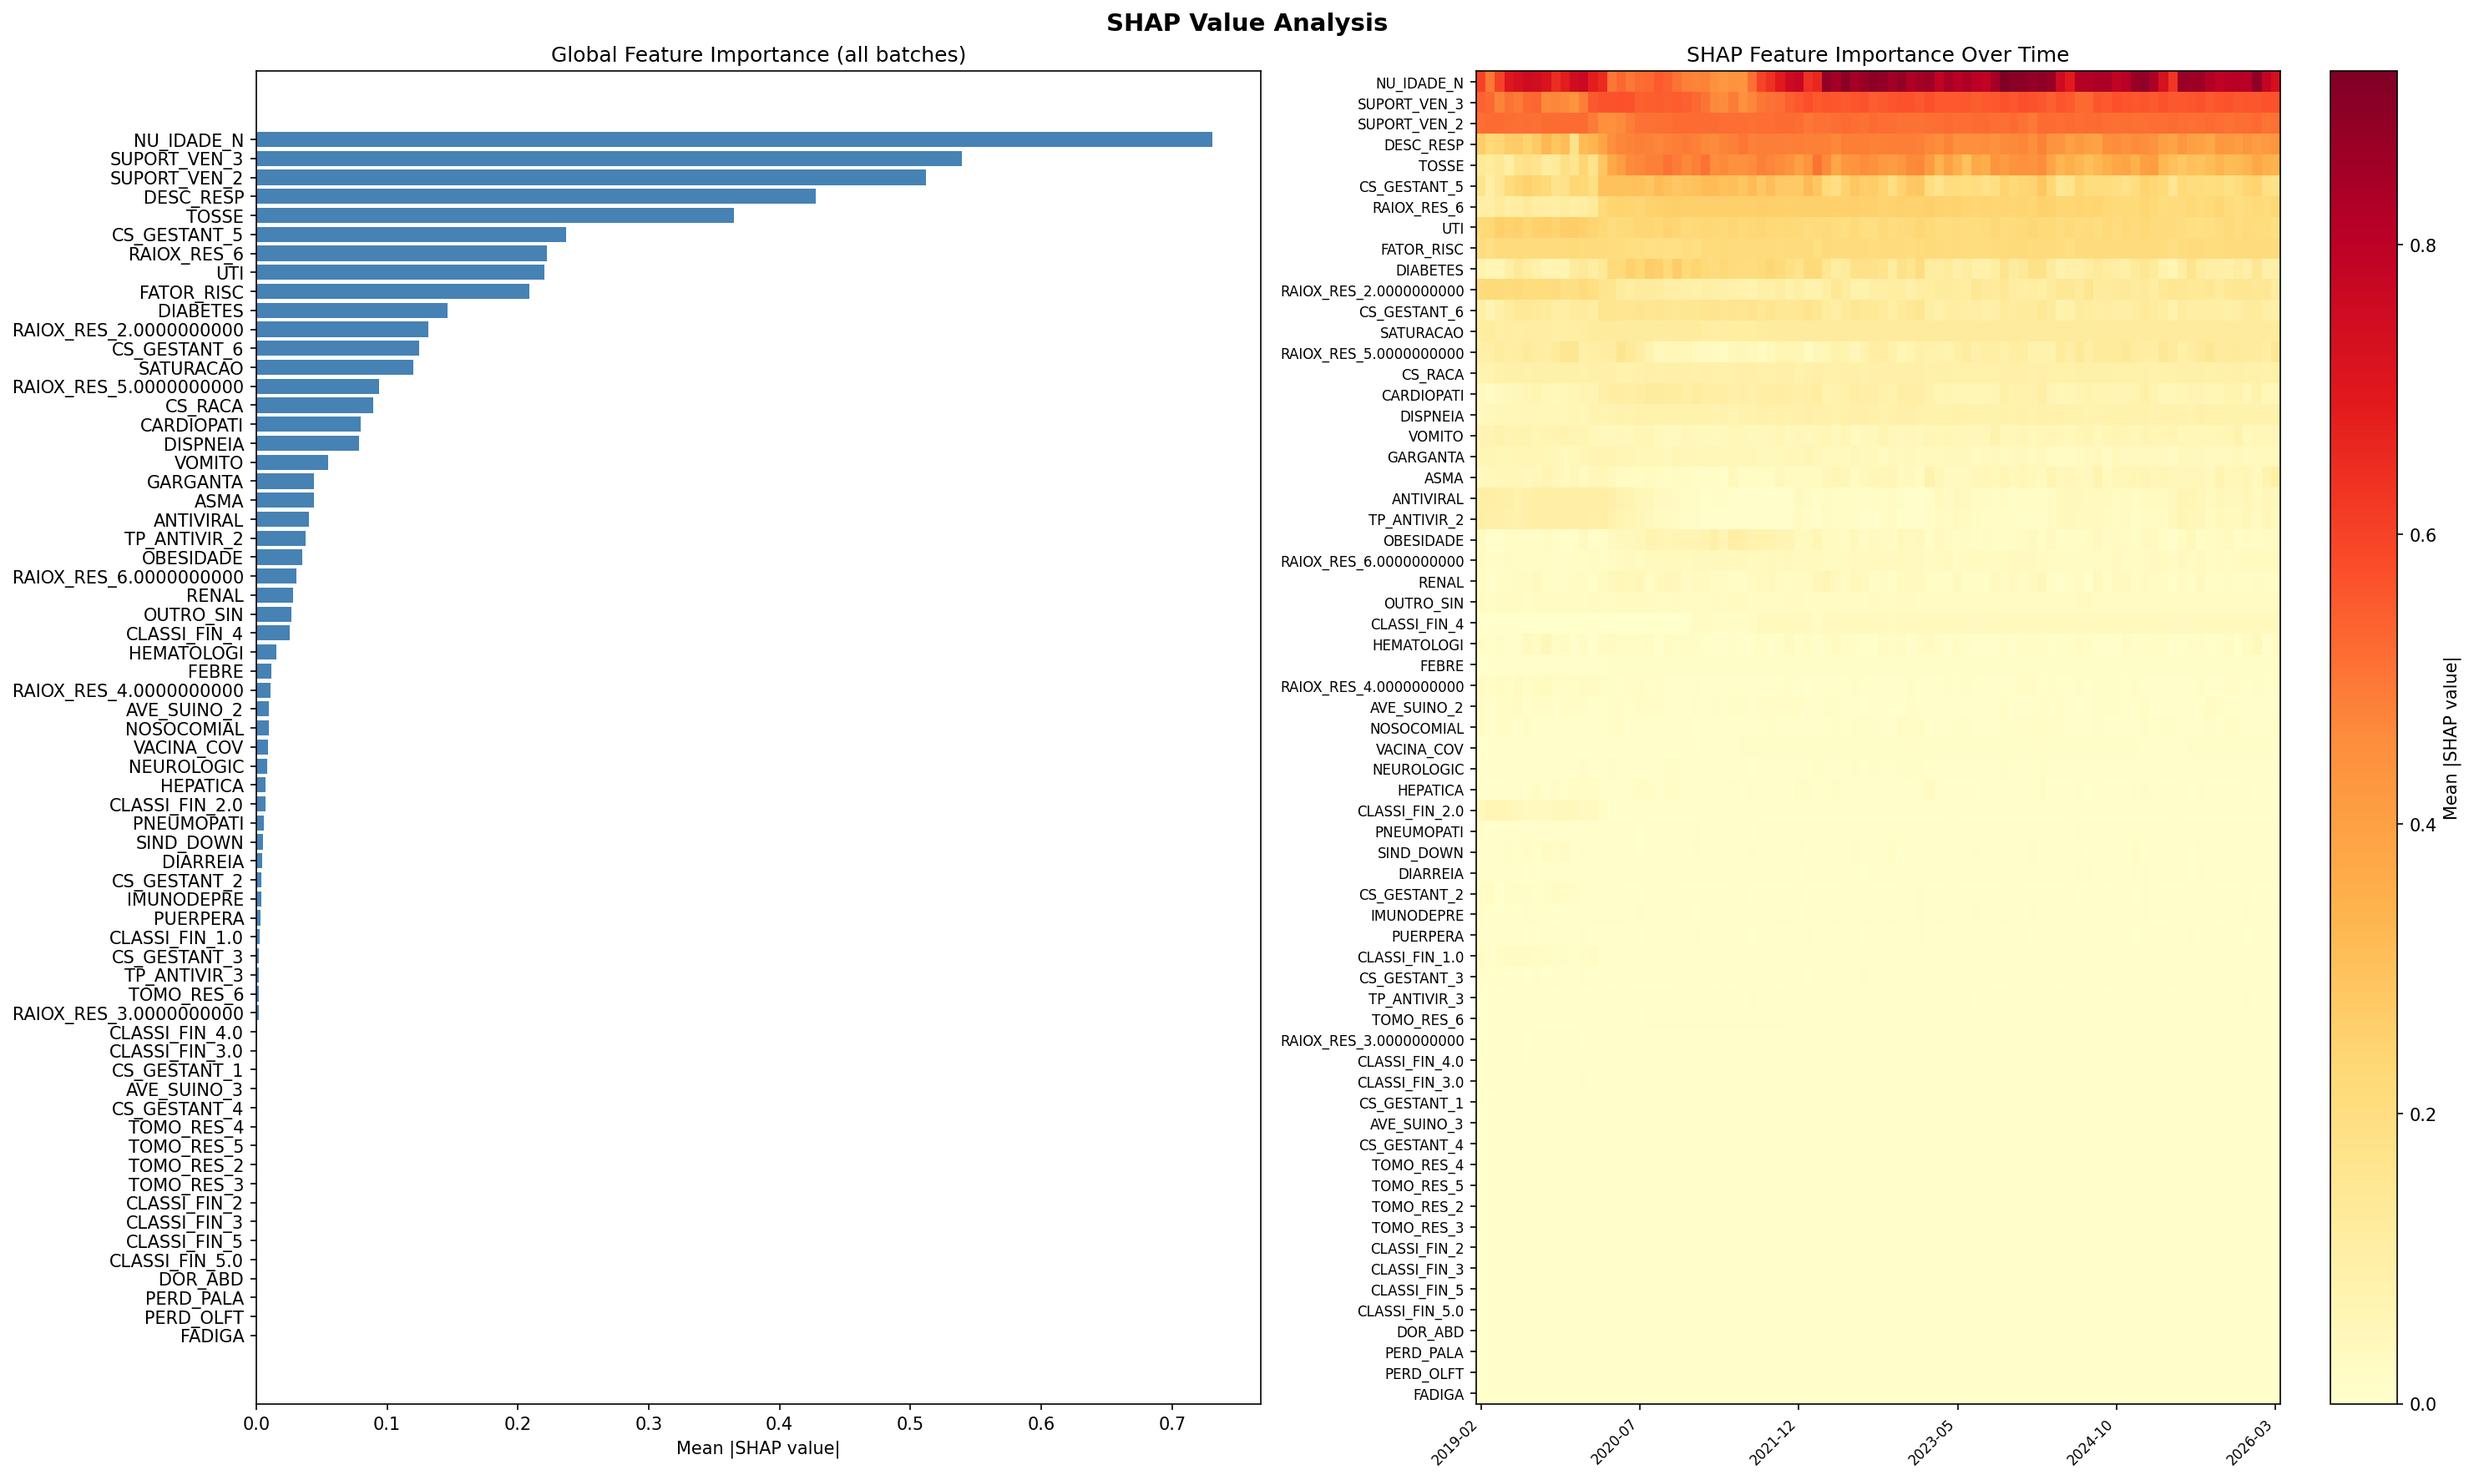
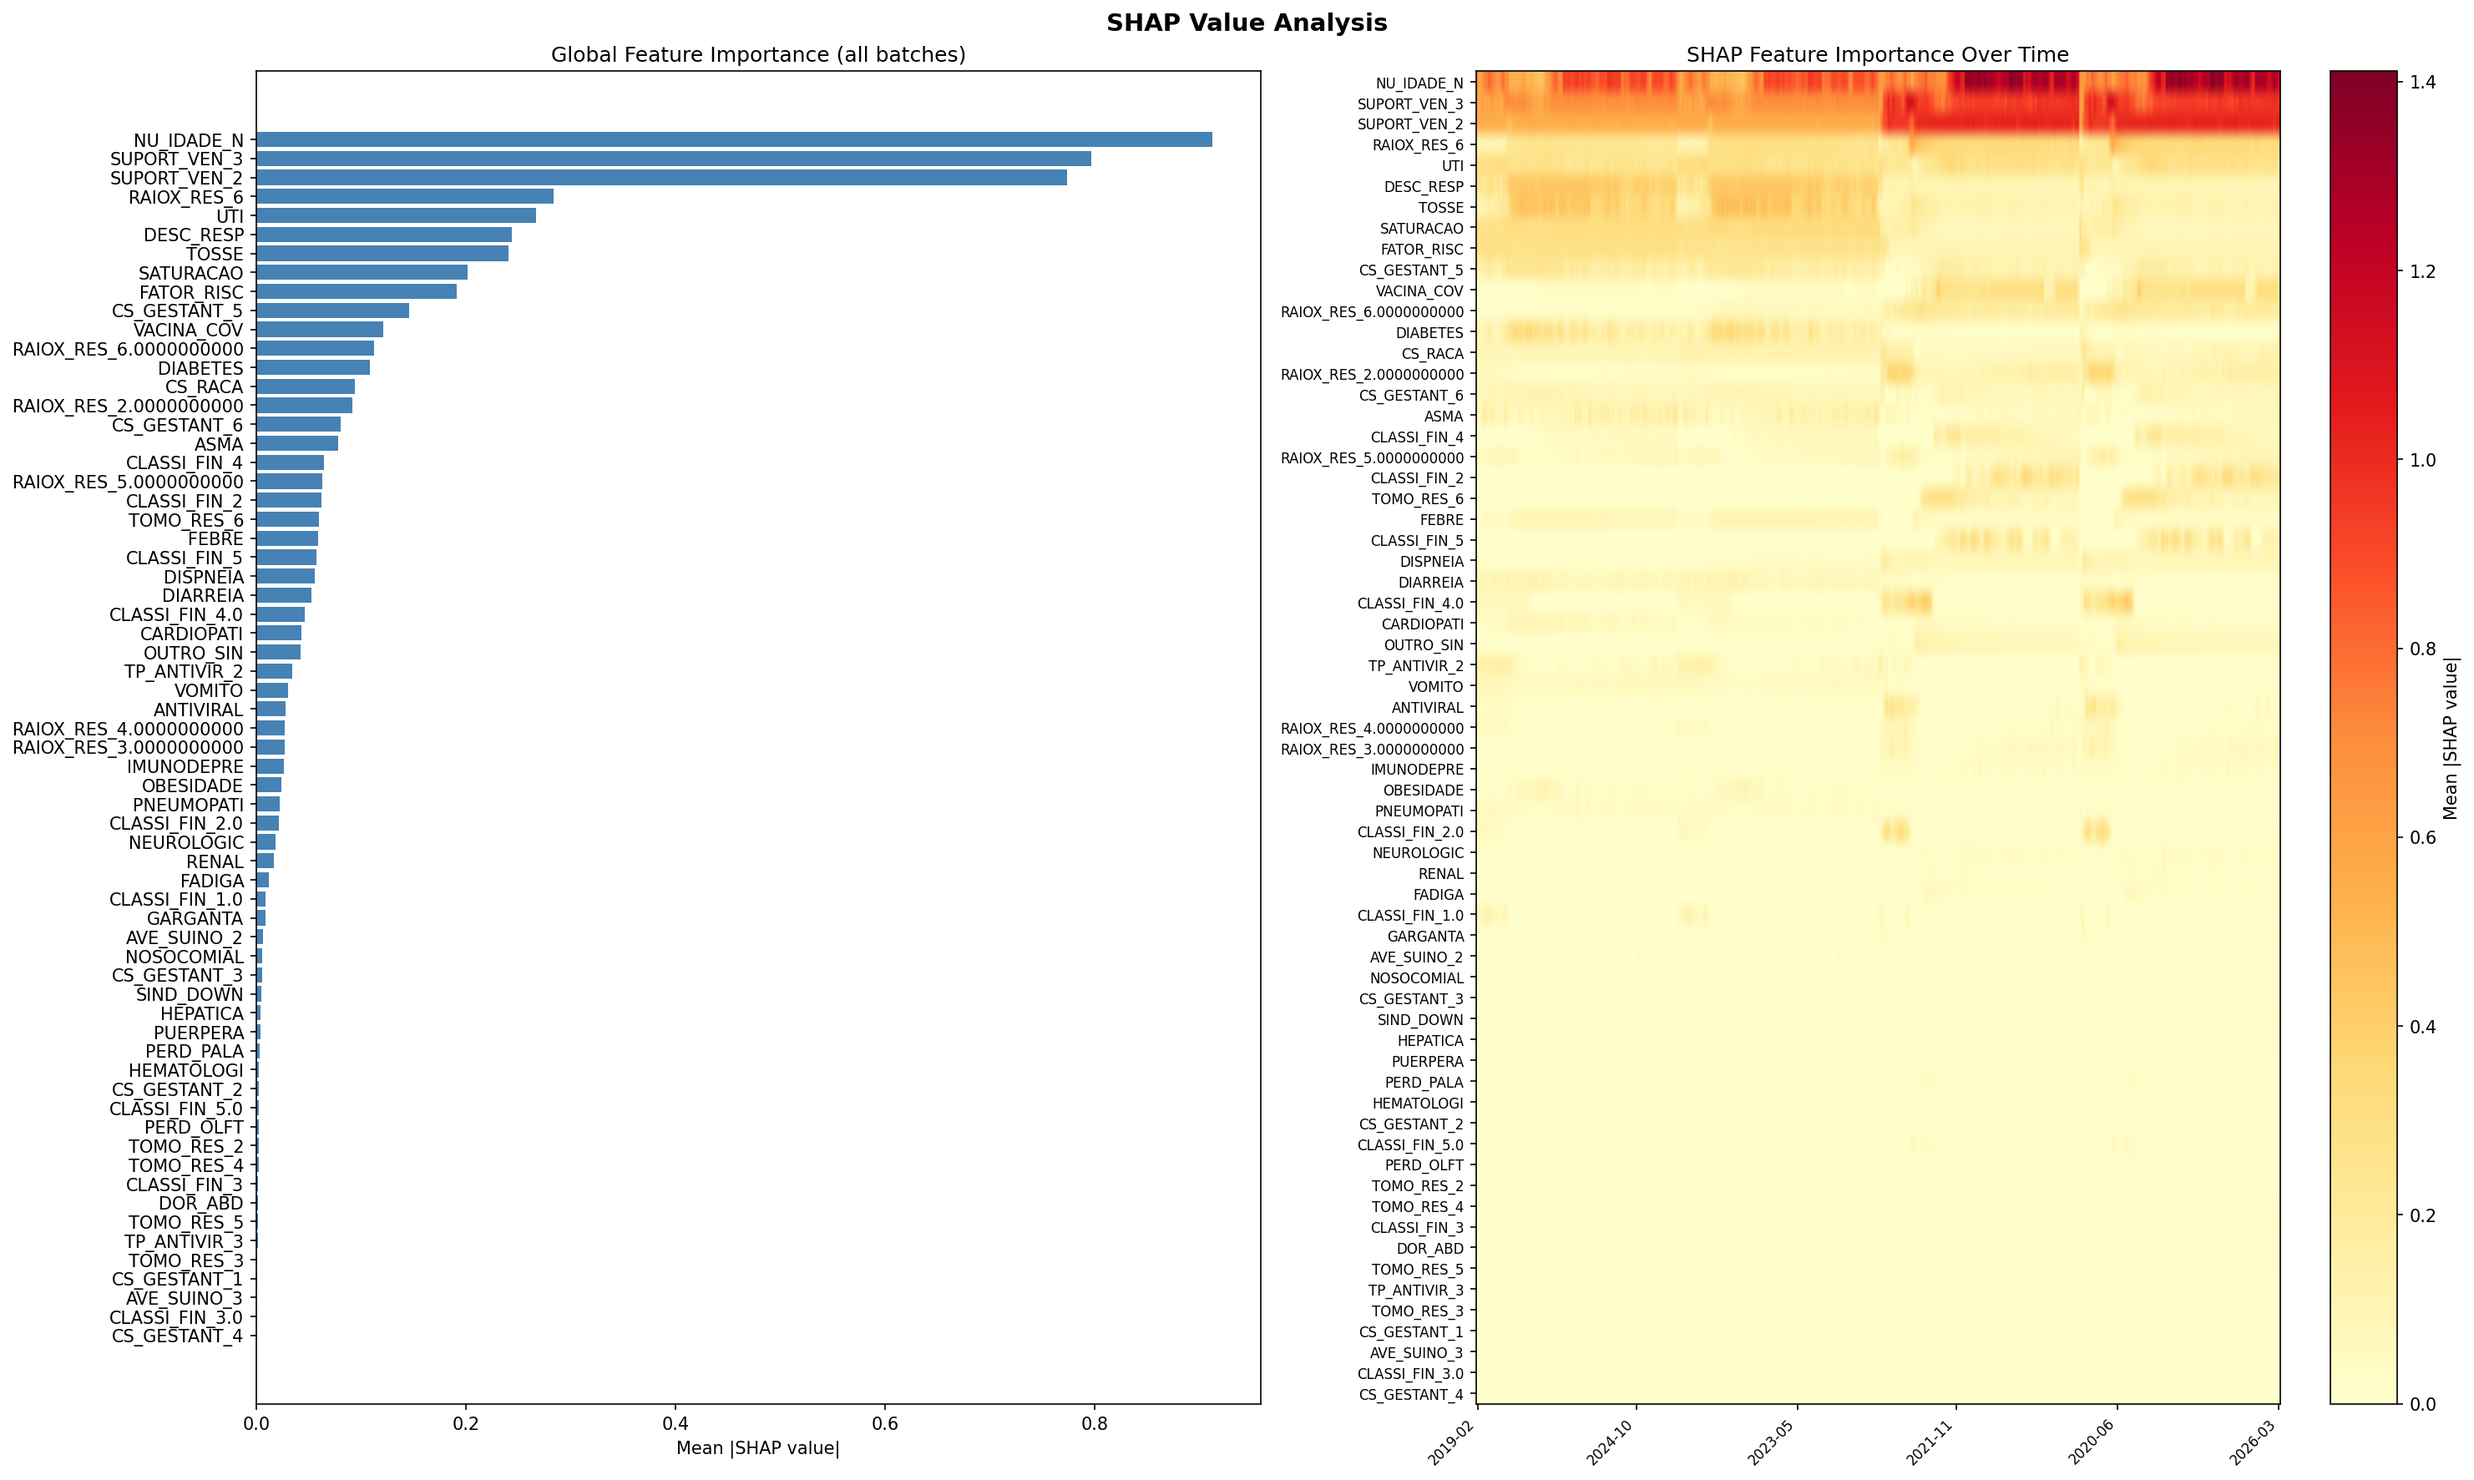
adding all baselines run and newer config on metrics charts

diff --git a/src/utils/metrics_utils.py b/src/utils/metrics_utils.py
@@ -80,32 +80,68 @@ def generate_charts(
     baseline_type: str = '',
     save: bool = False,
 ) -> None:
-    fig, axes = plt.subplots(1, 5, figsize=(30, 5))
+    _MA_WINDOW = 10
+    N_COLS = len(_SNAPSHOT_METRICS)
 
-    alphas = assessment_results_df['alpha'].unique()
+    has_baselines = 'baseline' in assessment_results_df.columns
+    baselines = assessment_results_df['baseline'].unique().tolist() if has_baselines else [None]
+    n_rows = len(baselines)
 
     batch_labels = assessment_results_df['batch'].astype(str).unique().tolist()
+    alphas = assessment_results_df['alpha'].unique()
 
-    _MA_WINDOW = 10
+    fig, axes = plt.subplots(n_rows, N_COLS, figsize=(30, 5 * n_rows), squeeze=False)
+
     period_handles = []
 
-    for ax, (col, label) in zip(axes, _SNAPSHOT_METRICS):
-        handles = _add_period_spans(ax, batch_labels)
-        if not period_handles:
-            period_handles = handles
+    for row, bt in enumerate(baselines):
+        row_df = assessment_results_df[assessment_results_df['baseline'] == bt] if has_baselines else assessment_results_df
 
-        for alpha in alphas:
-            subset = assessment_results_df[assessment_results_df['alpha'] == alpha].reset_index(drop=True)
-            x_str = subset['batch'].astype(str).tolist()
-            y = subset[col]
-            ax.plot(x_str, y, marker='o', alpha=0.3, label=f'α={alpha}')
-            ma = y.rolling(window=_MA_WINDOW, min_periods=1).mean()
-            ax.plot(x_str, ma, linewidth=2, alpha=0.9, color='green', label=f'MA-{_MA_WINDOW} α={alpha}')
-        ax.set_title(label)
-        ax.set_ylabel(label)
-        _apply_bin_xticks(ax, batch_labels)
-        if len(alphas) > 1:
-            ax.legend(fontsize=7)
+        for col_idx, (col, label) in enumerate(_SNAPSHOT_METRICS):
+            ax = axes[row][col_idx]
+
+            handles = _add_period_spans(ax, batch_labels)
+            if not period_handles:
+                period_handles = handles
+
+            for alpha in alphas:
+                subset = row_df[row_df['alpha'] == alpha].reset_index(drop=True)
+                x_str = subset['batch'].astype(str).tolist()
+                y = subset[col]
+                ax.plot(x_str, y, marker='o', alpha=0.3, label=f'α={alpha}')
+                ma = y.rolling(window=_MA_WINDOW, min_periods=1).mean()
+                ax.plot(x_str, ma, linewidth=2, alpha=0.9, color='green', label=f'MA-{_MA_WINDOW} α={alpha}')
+
+            ax.set_title(label)
+            ax.set_ylabel(label)
+
+            if col_idx in (0, 1):
+                ax.set_ylim(0.60, 1.0)
+            elif col_idx == 2:
+                ax.set_ylim(0.0, 0.07)
+            elif col_idx == 3:
+                ax.set_ylim(0.0, 0.22)
+            elif col_idx == 4:
+                ax.set_ylim(0.0, 0.052)
+
+            _apply_bin_xticks(ax, batch_labels)
+
+            if len(alphas) > 1:
+                ax.legend(fontsize=7)
+
+        # baseline label centered above the row
+        if has_baselines and bt:
+            mid_ax = axes[row][N_COLS // 2]
+            mid_ax.annotate(
+                f'Baseline: {bt}',
+                xy=(0.5, 1.08),
+                xycoords='axes fraction',
+                ha='center',
+                va='bottom',
+                fontsize=11,
+                fontweight='bold',
+                bbox=dict(boxstyle='round,pad=0.4', facecolor='#f0f0f0', edgecolor='#888888', alpha=0.9),
+            )
 
     title = 'Model Performance & Fairness Metrics'
     if baseline_type:
@@ -128,9 +164,9 @@ def generate_charts(
 def compute_temporal_metrics(
     assessment_metrics: pd.DataFrame, alpha: float
 ) -> pd.DataFrame:
-    mb = assessment_metrics['sp'].max()
-    ts = abs(assessment_metrics['sp'].diff().mean())
-    mbd = abs(assessment_metrics['sp'].diff().max())
+    mb = assessment_metrics['sp'].abs().max()
+    ts = assessment_metrics['sp'].diff().abs().mean()
+    mbd = assessment_metrics['sp'].diff().abs().max()
 
     temporal_metrics = pd.DataFrame(
         {

diff --git a/src/main.py b/src/main.py
@@ -12,10 +12,10 @@ def ABCInML(
     target_label: str,
     baseline_type: str,
     alpha: float,
-    forecast_window: int = 3,
+    forecast_window: int = 6,
 ) -> None:
     
-    _MAX_ITER = 150
+    _MAX_ITER = 1000
 
     (
         batches,
@@ -24,10 +24,8 @@ def ABCInML(
         model,
         sample_weights,
         forecasted_distributions,
+        shap_records,
     ) = general_utils.initialize_variables(df, window_column)
-
-    shap_records = []
-
 
     print(f'(1) running with alpha: {alpha}')
 
@@ -132,19 +130,10 @@ def ABCInML(
     return assessment_metrics, temporal_metrics, shap_records
 
 
-def main():
-    warnings.filterwarnings('ignore', category=ConvergenceWarning)
+_ALL_BASELINES = ['vanilla', 'static', 'dynamic', 'abcinml']
 
-    alphas, baseline_type, sensitive_attribute, target_label, window_column = (
-        general_utils.parse_arguments()
-    )
 
-    df = data_utils.pre_process_df(
-        sensitive_attribute=sensitive_attribute,
-        sensitive_value=2,
-        favored_value=1,
-    )
-
+def _run_baseline(df, baseline_type, alphas, sensitive_attribute, target_label, window_column):
     assessment_results_df = pd.DataFrame()
     temporal_results_df = pd.DataFrame()
     shap_records = []
@@ -166,8 +155,40 @@ def main():
         temporal_results_df = pd.concat([temporal_results_df, temporal_metrics])
         shap_records.extend(alpha_shap_records)
 
-    metrics_utils.generate_charts(assessment_results_df, temporal_results_df, baseline_type=baseline_type, save=True)
-    metrics_utils.generate_shap_charts(shap_records, save=True)
+    return assessment_results_df, temporal_results_df, shap_records
+
+
+def main():
+    warnings.filterwarnings('ignore', category=ConvergenceWarning)
+
+    alphas, baseline_type, sensitive_attribute, target_label, window_column = (
+        general_utils.parse_arguments()
+    )
+
+    df = data_utils.pre_process_df(
+        sensitive_attribute=sensitive_attribute,
+        sensitive_value=2,
+        favored_value=1,
+    )
+
+    baselines = _ALL_BASELINES if baseline_type == 'all' else [baseline_type]
+
+    all_assessment_df = pd.DataFrame()
+    all_temporal_df = pd.DataFrame()
+    all_shap_records = []
+
+    for bt in baselines:
+        assessment_results_df, temporal_results_df, shap_records = _run_baseline(
+            df, bt, alphas, sensitive_attribute, target_label, window_column
+        )
+        assessment_results_df['baseline'] = bt
+        all_assessment_df = pd.concat([all_assessment_df, assessment_results_df])
+        all_temporal_df = pd.concat([all_temporal_df, temporal_results_df])
+        all_shap_records.extend(shap_records)
+
+    chart_label = 'all' if baseline_type == 'all' else baseline_type
+    metrics_utils.generate_charts(all_assessment_df, all_temporal_df, baseline_type=chart_label, save=True)
+    metrics_utils.generate_shap_charts(all_shap_records, save=True)
 
     print('finished training.')
 

diff --git a/src/utils/general_utils.py b/src/utils/general_utils.py
@@ -53,5 +53,6 @@ def initialize_variables(df, window_column):
     model = None
     sample_weights = None
     forecasted_distributions = None
+    shap_records = []
 
-    return batches, historical_proportions, assessment_metrics, model, sample_weights, forecasted_distributions
+    return batches, historical_proportions, assessment_metrics, model, sample_weights, forecasted_distributions, shap_records
